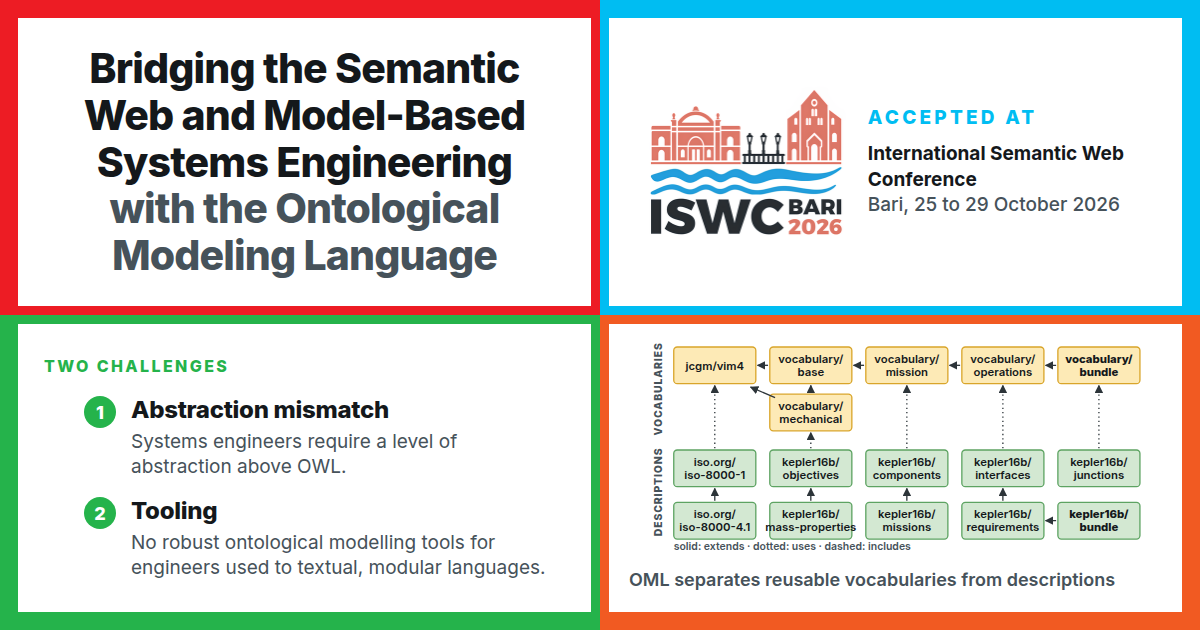
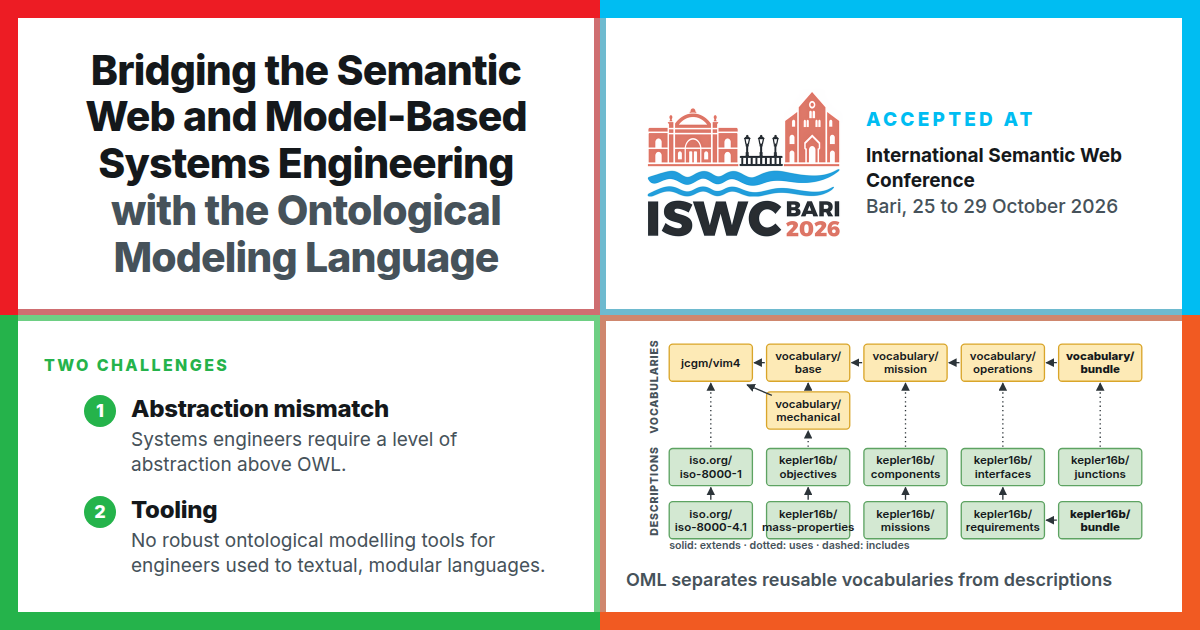
Soften and thin the ISWC card's interior rules
The interior rules dropped from 9px to 6px and from the full brand
colours to desaturated companions, so the quadrant grid reads as
structure while the outer frame keeps the brand colour.

They also moved off the borders and onto absolutely positioned
pseudo-elements. A border mitres at 45 degrees where the thin rule
meets the thick frame, which cut a visible wedge out of the frame at
the top and bottom centre of the card; padding on the affected sides
grows by the rule width so the content box is unchanged.

diff --git a/assets/cards/elaasar2026-oml.html b/assets/cards/elaasar2026-oml.html
@@ -7,12 +7,18 @@
     --orange: #f15a22;
     --vert: #25b34b;
     --bleu: #00bdf2;
+    /* Very desaturated companions, used only for the interior rules so the
+       grid reads as structure while the outer frame keeps the brand colour. */
+    --rouge-soft: #cf6e71;
+    --orange-soft: #cf876e;
+    --vert-soft: #6ecf84;
+    --bleu-soft: #6ebacf;
     --ink: #14181b;
     --ink-soft: #46525a;
     --edge: 18px;
     /* Each quadrant draws its own half of the interior lines, so the vertical
        and horizontal rules read as two colours meeting down the middle. */
-    --rule: 9px;
+    --rule: 6px;
   }
   * {
     box-sizing: border-box;
@@ -33,19 +39,56 @@
     grid-template-rows: 1fr 1fr;
   }
   .q {
+    position: relative;
     background: #fff;
     padding: 32px 38px;
     display: flex;
     flex-direction: column;
     overflow: hidden;
   }
+  /* Drawn inside the quadrant rather than as borders: a border would mitre
+     diagonally where the thin interior rule meets the thick outer frame and
+     cut a wedge out of the frame at the card edge. */
+  .q::before,
+  .q::after {
+    content: "";
+    position: absolute;
+    background: var(--rule-colour);
+  }
+  .q::before {
+    top: 0;
+    bottom: 0;
+    width: var(--rule);
+  }
+  .q::after {
+    left: 0;
+    right: 0;
+    height: var(--rule);
+  }
+  .title::before,
+  .points::before {
+    right: 0;
+  }
+  .venue::before,
+  .figure::before {
+    left: 0;
+  }
+  .title::after,
+  .venue::after {
+    bottom: 0;
+  }
+  .points::after,
+  .figure::after {
+    top: 0;
+  }
 
   /* --- top left: paper name --- */
   .title {
+    --rule-colour: var(--rouge-soft);
+    padding-right: calc(38px + var(--rule));
+    padding-bottom: calc(32px + var(--rule));
     border-top: var(--edge) solid var(--rouge);
     border-left: var(--edge) solid var(--rouge);
-    border-right: var(--rule) solid var(--rouge);
-    border-bottom: var(--rule) solid var(--rouge);
     justify-content: center;
     text-align: center;
   }
@@ -62,10 +105,11 @@
 
   /* --- top right: accepted at / venue --- */
   .venue {
+    --rule-colour: var(--bleu-soft);
+    padding-left: calc(38px + var(--rule));
+    padding-bottom: calc(32px + var(--rule));
     border-top: var(--edge) solid var(--bleu);
     border-right: var(--edge) solid var(--bleu);
-    border-left: var(--rule) solid var(--bleu);
-    border-bottom: var(--rule) solid var(--bleu);
     flex-direction: row;
     align-items: center;
     gap: 22px;
@@ -105,10 +149,11 @@
 
   /* --- bottom left: the two challenges --- */
   .points {
+    --rule-colour: var(--vert-soft);
+    padding-right: calc(38px + var(--rule));
+    padding-top: calc(32px + var(--rule));
     border-bottom: var(--edge) solid var(--vert);
     border-left: var(--edge) solid var(--vert);
-    border-right: var(--rule) solid var(--vert);
-    border-top: var(--rule) solid var(--vert);
     justify-content: center;
     padding-left: 26px;
   }
@@ -161,11 +206,10 @@
 
   /* --- bottom right: the figure, redrawn --- */
   .figure {
+    --rule-colour: var(--orange-soft);
     border-bottom: var(--edge) solid var(--orange);
     border-right: var(--edge) solid var(--orange);
-    border-left: var(--rule) solid var(--orange);
-    border-top: var(--rule) solid var(--orange);
-    padding: 16px 20px 20px;
+    padding: calc(16px + var(--rule)) 20px 20px calc(20px + var(--rule));
     gap: 10px;
   }
   .figure svg {
